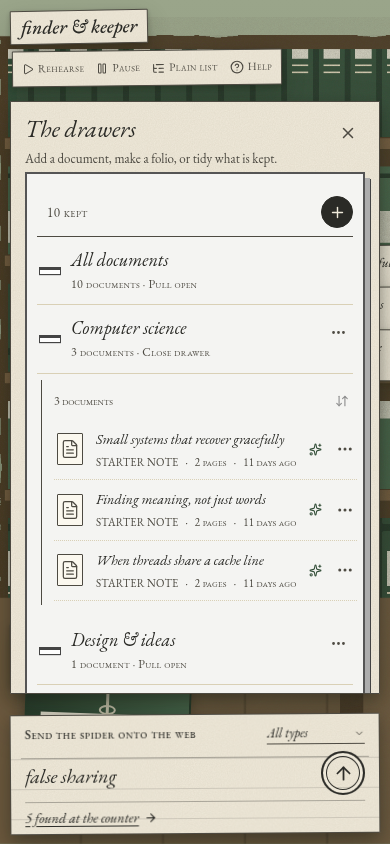
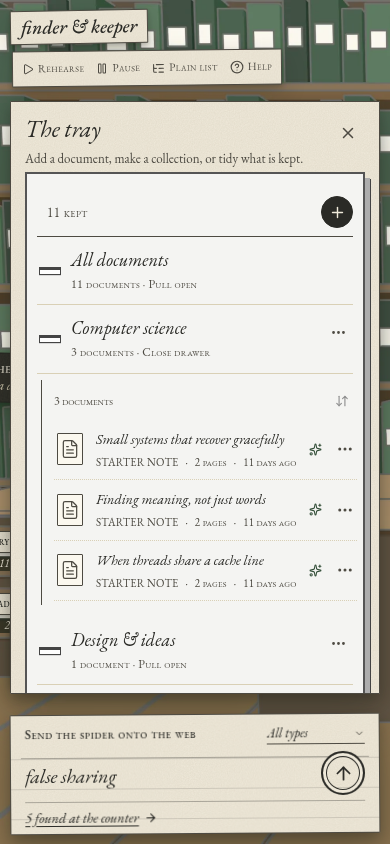
Ship the rendered herbarium assets (room layers, drawer plates, Keeper atlases)
Second Blender pass: face features in front of the head, tidier hair,
camera aimed a touch lower. Phone drawers get a wider fan and smaller labels;
the tray label hangs off the desk's left end.

diff --git a/components/shop.tsx b/components/shop.tsx
@@ -234,7 +234,7 @@ export default function Shop(props: ShopProps) {
           {more > 0 && <button className={styles.folioMore} onClick={openDrawerPanel}>{more} more {more === 1 ? 'folio' : 'folios'} in the drawers</button>}
         </div>
 
-        <button className={styles.tag} style={marks ? at(marks.tray[0] * 100 + 2, marks.desks[1] * 100 - 20, 1.5) : at(6, 32, 1.5)} onClick={openDrawerPanel} aria-expanded={drawer} aria-controls="shop-drawer"><span className={styles.tagCard}>The tray<small>add a document</small></span></button>
+        <button className={styles.tag} style={marks ? at(marks.desks[0] * 100 - 9, marks.desks[1] * 100 - 20, 1.5) : at(6, 32, 1.5)} onClick={openDrawerPanel} aria-expanded={drawer} aria-controls="shop-drawer"><span className={styles.tagCard}>The tray<small>add a document</small></span></button>
         <button className={styles.tag} style={marks ? at(marks.desks[0] * 100 + 4, marks.desks[1] * 100 - 34, -1.5) : at(19, 32, -1.5)} onClick={() => chooseJob('search')} disabled={props.disabled} aria-pressed={props.mode === 'search'}><span className={styles.tagCard}>The desks<small>open a drawer, search what you keep</small></span></button>
         <button className={styles.tag} style={marks ? at(marks.register[0] * 100 + 8, marks.register[1] * 100 - 2, -1.5) : at(60, 69, -1.5)} onClick={() => chooseJob('ask')} disabled={props.disabled} aria-pressed={props.mode === 'ask'}><span className={styles.tagCard}>The register<small>ask, answered from your library</small></span></button>
         <button className={styles.tag} style={marks ? at(marks.windowLabel[0] * 100, marks.windowLabel[1] * 100, 1.5) : at(85, 56, 1.5)} onClick={() => chooseJob('discover')} disabled={props.disabled} aria-pressed={props.mode === 'discover'}><span className={styles.tagCard}>The window<small>send the spider onto the web</small></span></button>

diff --git a/components/shop.module.css b/components/shop.module.css
@@ -261,9 +261,11 @@
   .tagCard small { overflow: hidden; text-overflow: ellipsis; }
   .edge { top: 26%; padding: 8px 9px; font-size: 13px; }
   .folios { left: 2%; top: 46%; width: 27%; grid-template-columns: repeat(2, 1fr); gap: 8% 4%; }
-  .folios[data-placed='true'] .folio { width: min(26cqw, 150px); }
-  .folioName { font-size: 12px; } .folioCount { font-size: 11px; }
-  .fanSheet span { font-size: 13px; } .fanSheet small { font-size: 11px; }
+  .folios[data-placed='true'] .folio { width: min(30cqw, 150px); }
+  .fan { left: -45%; right: -45%; }
+  .fanSheet { padding: 7px 8px 6px 16px; }
+  .folioName { font-size: 11px; padding: 2px 5px; } .folioCount { font-size: 10px; }
+  .fanSheet span { font-size: 12px; } .fanSheet small { font-size: 10px; }
   .fan { left: 0; right: -40%; }
   .frame .papers, .frame[data-station='counter'] .papers, .frame[data-station='desks'] .papers, .frame[data-station='window'] .papers { left: 10px; right: 10px; width: auto; top: 44%; max-height: 56%; padding-bottom: calc(var(--slip-h) + 96px); }
   .drawer { top: 12%; left: 10px; right: 10px; width: auto; max-height: calc(88% - var(--slip-h)); padding: 14px 14px 18px; }
